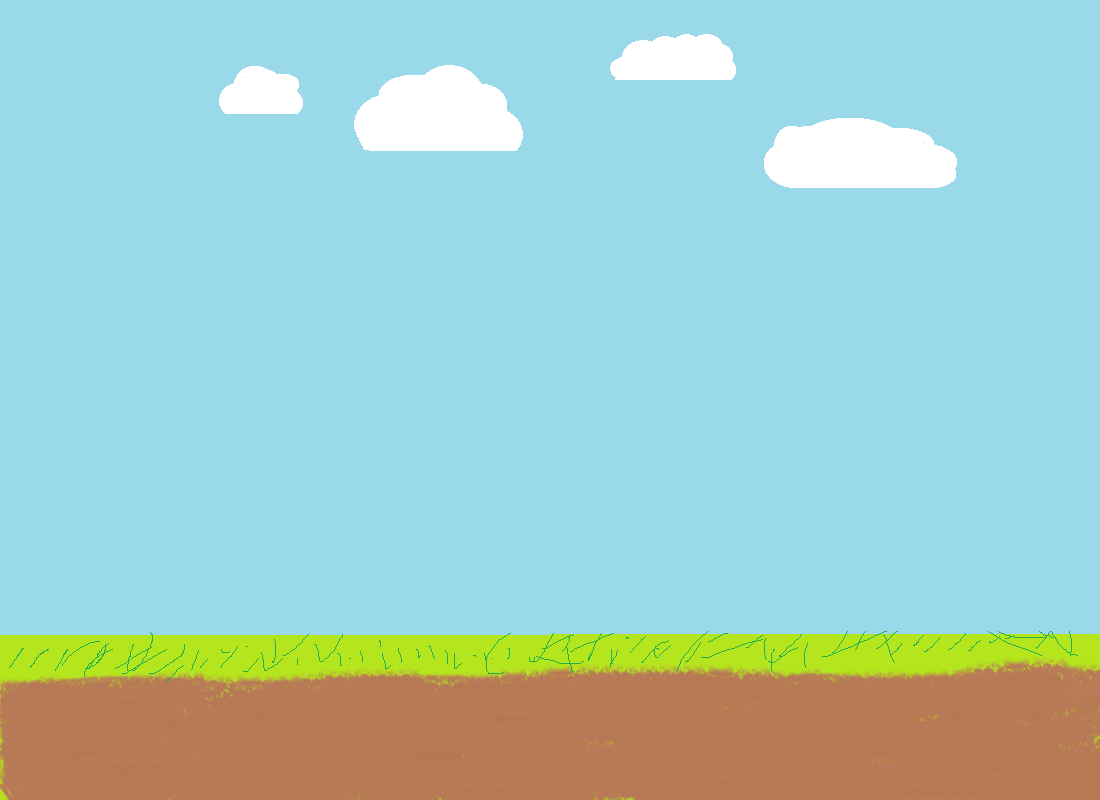
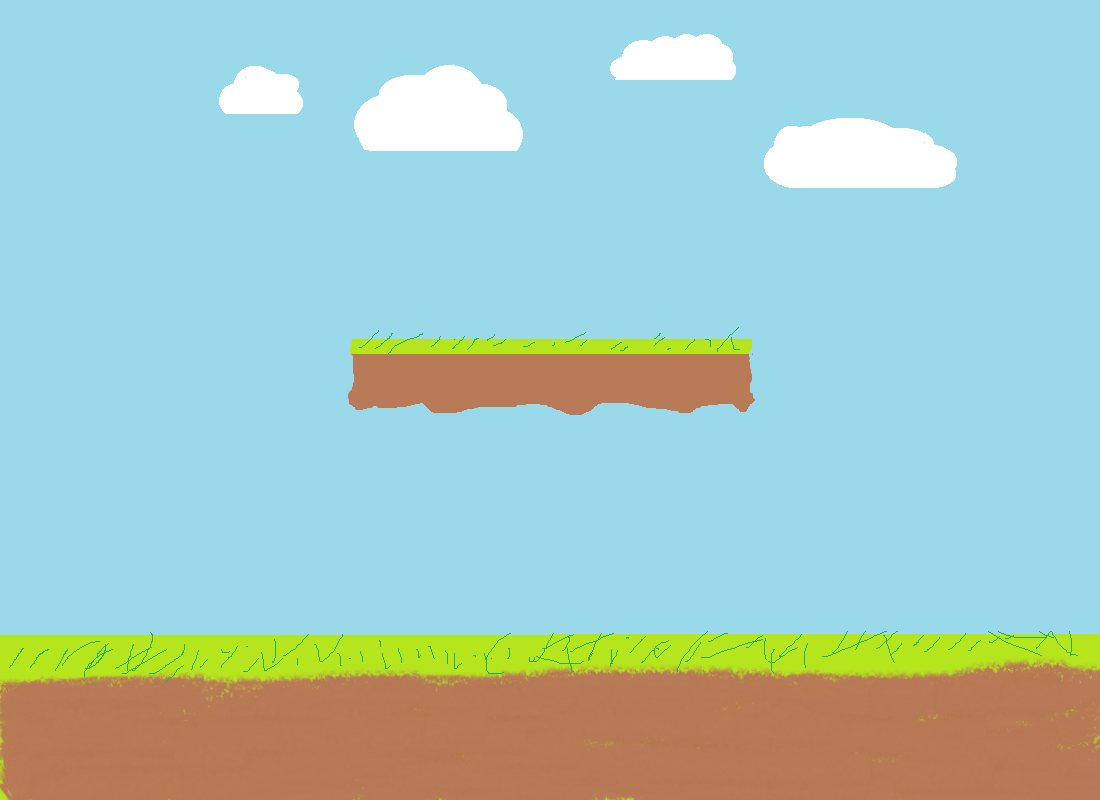
new level

Changed region(s): [[0.3091, 0.4062, 0.7109, 0.5312]]

diff --git a/testLevel.py b/testLevel.py
@@ -1,10 +1,19 @@
 # Child class of level, serves as a test
 from level import Level
 from platform import Platform
+import pygame
 
 
 class TestLevel(Level):
     def __init__(self, screen):
         super().__init__(screen, "media/field_map.png")
-        self.ground = Platform(screen, 100, 500, 900, 50)
+        self.ground = Platform(screen, 0, 650, 1100, 150)
+        self.lWall = Platform(screen, -100, 0, 100, 800)
+        self.rWall = Platform(screen, 1100, 0, 100, 800)
+        self.cPlat = Platform(screen, 350, 350, 400, 50)
+        self.platformGroup = pygame.sprite.Group()
+        self.platformGroup.add(self.ground)
+        self.platformGroup.add(self.lWall)
+        self.platformGroup.add(self.rWall)
+        self.platformGroup.add(self.cPlat)
 

diff --git a/main.py b/main.py
@@ -25,11 +25,7 @@ level = TestLevel(screen)
 background_image = pygame.image.load(level.getBackImg()).convert()
 testProjectile = pygame.image.load("media/projectileTest.png").convert()
 
-platformArray = pygame.sprite.Group()
-
-platformArray.add(level.ground)
-platformArray.add(Platform(screen, 50, 200, 50, 350))
-platformArray.add(Platform(screen, 1000, 200, 50, 350))
+platformArray = level.platformGroup
 
 pygame.display.set_caption("Lil' Shed's Get Good In™")
 

diff --git a/platform.py b/platform.py
@@ -12,9 +12,7 @@ class Platform(pygame.sprite.Sprite):
         self.length = length
         self.height = height
         self.image = pygame.Surface([self.length, self.height])
-        self.image.fill((0, 0, 255))
         self.rect = self.image.get_rect()
 
     def update(self):
         self.rect.topleft = self.x, self.y
-        pygame.draw.rect(self.screen, colors.colors.get("BLUE"), self.rect, 0)
